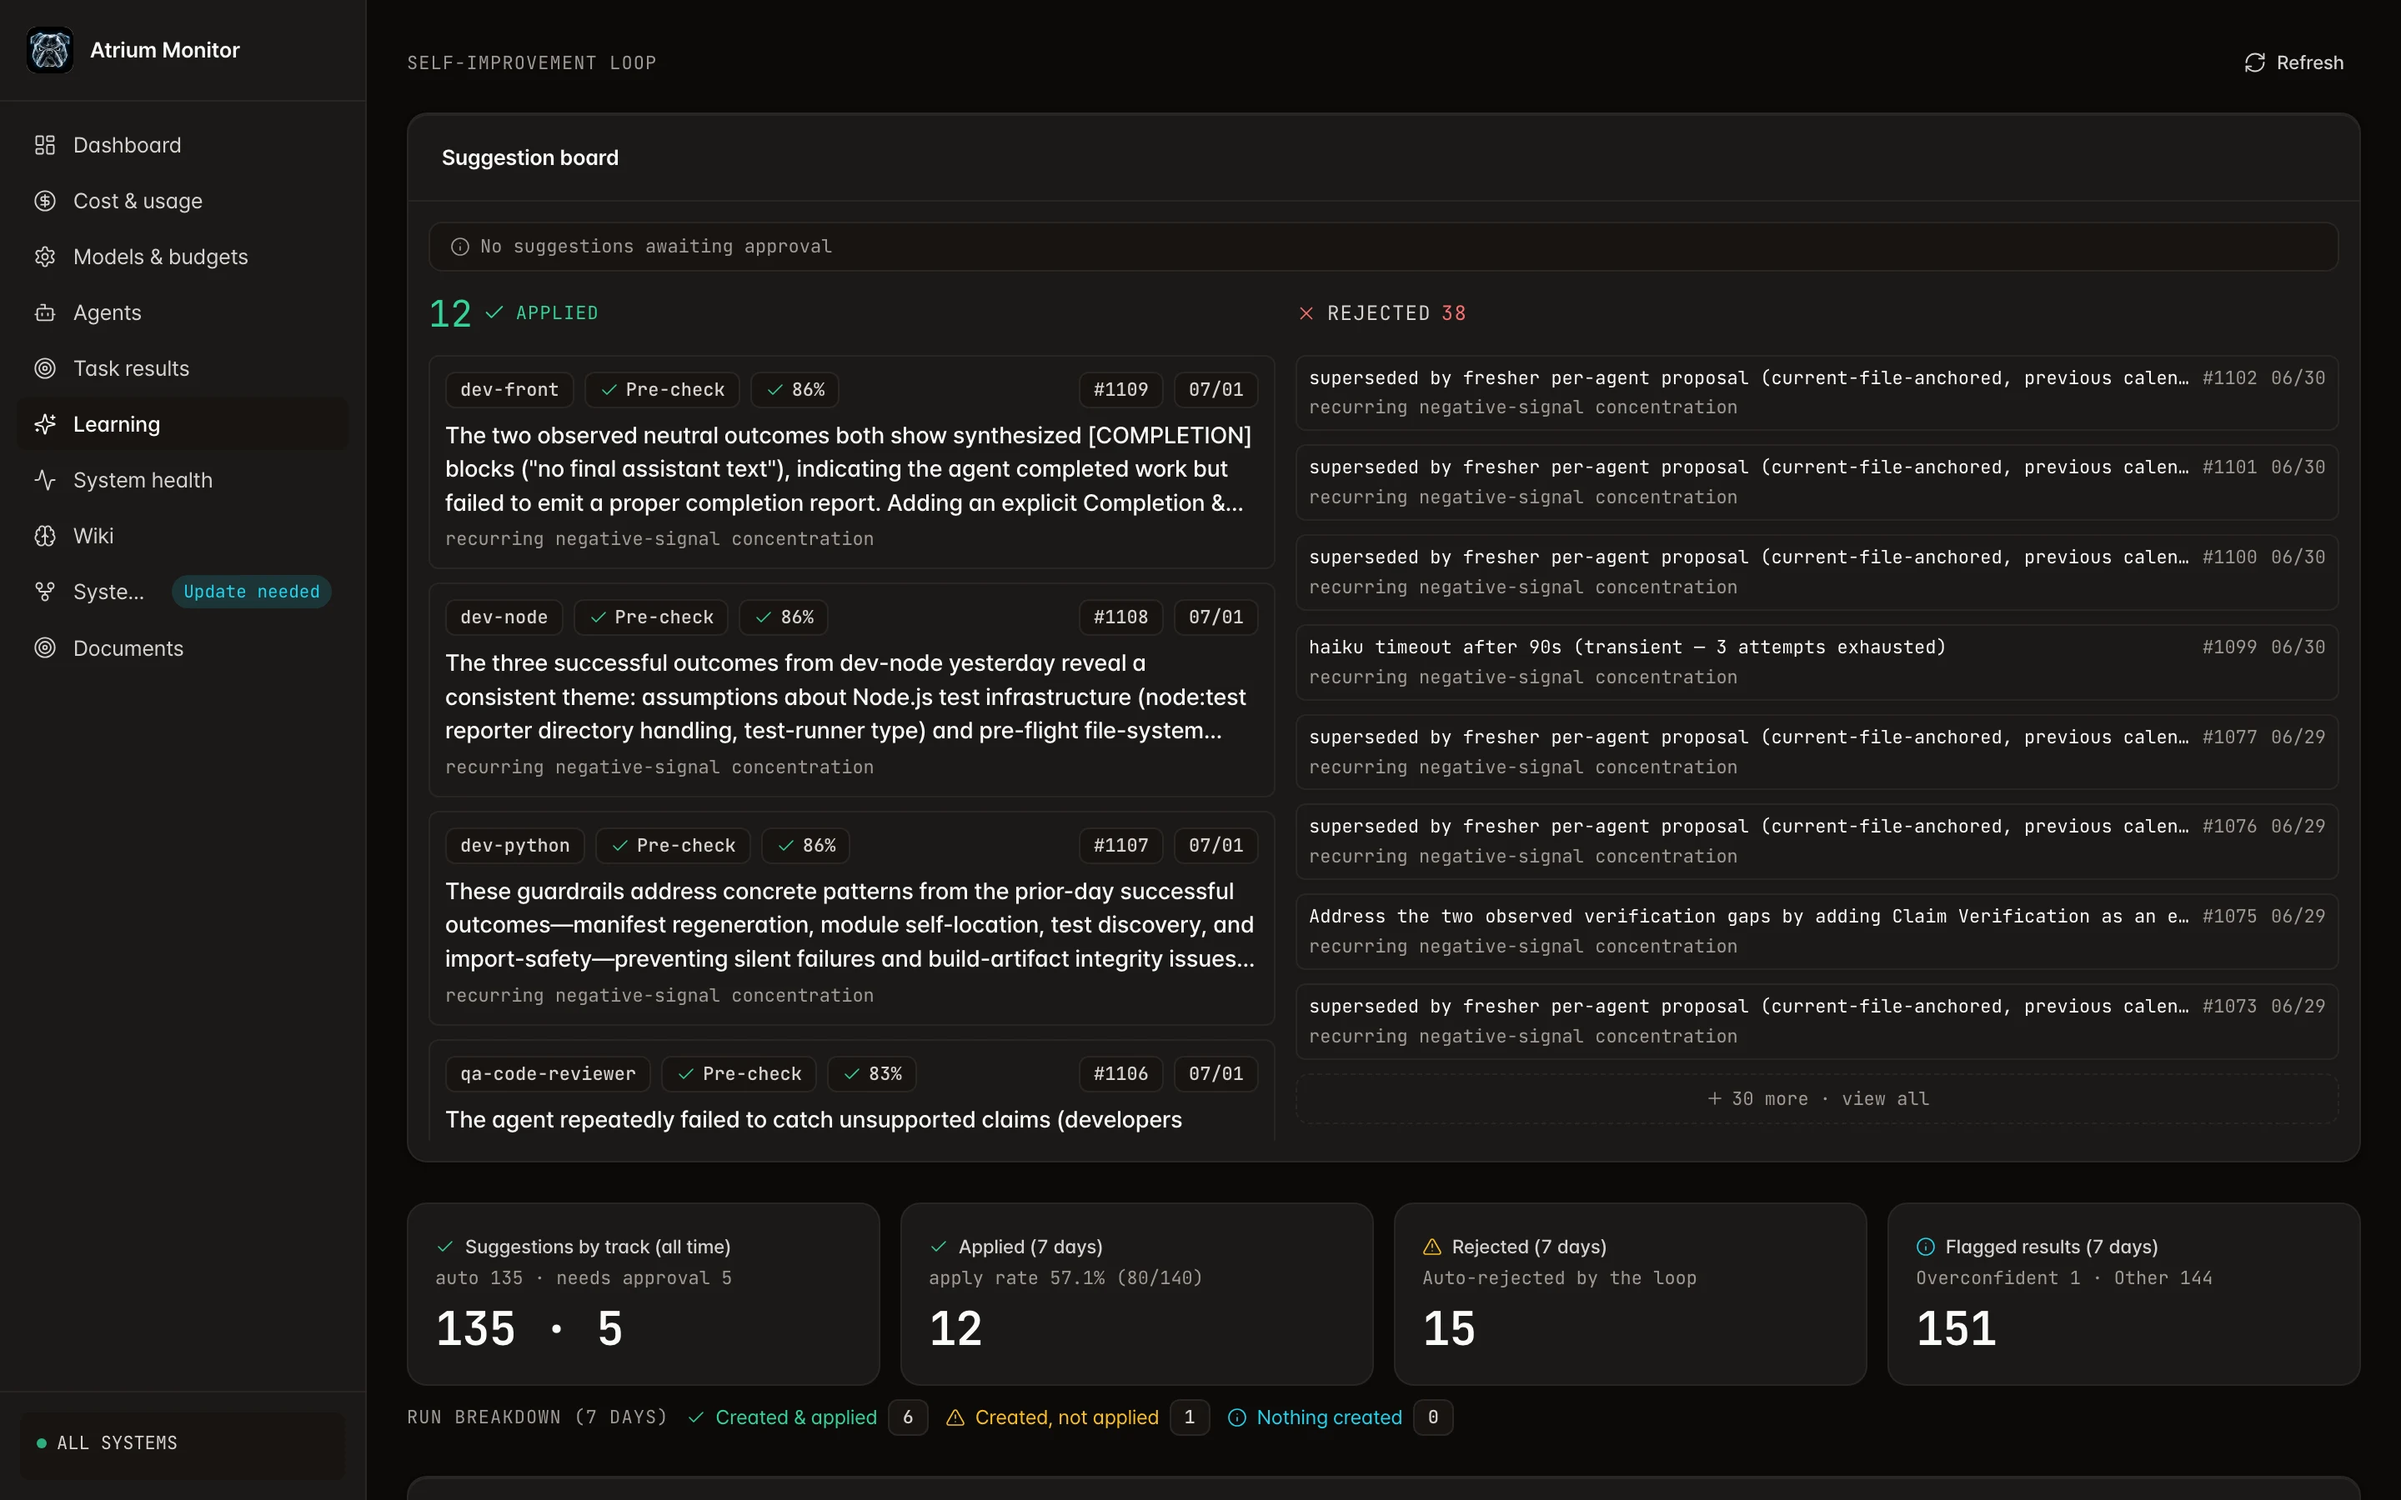
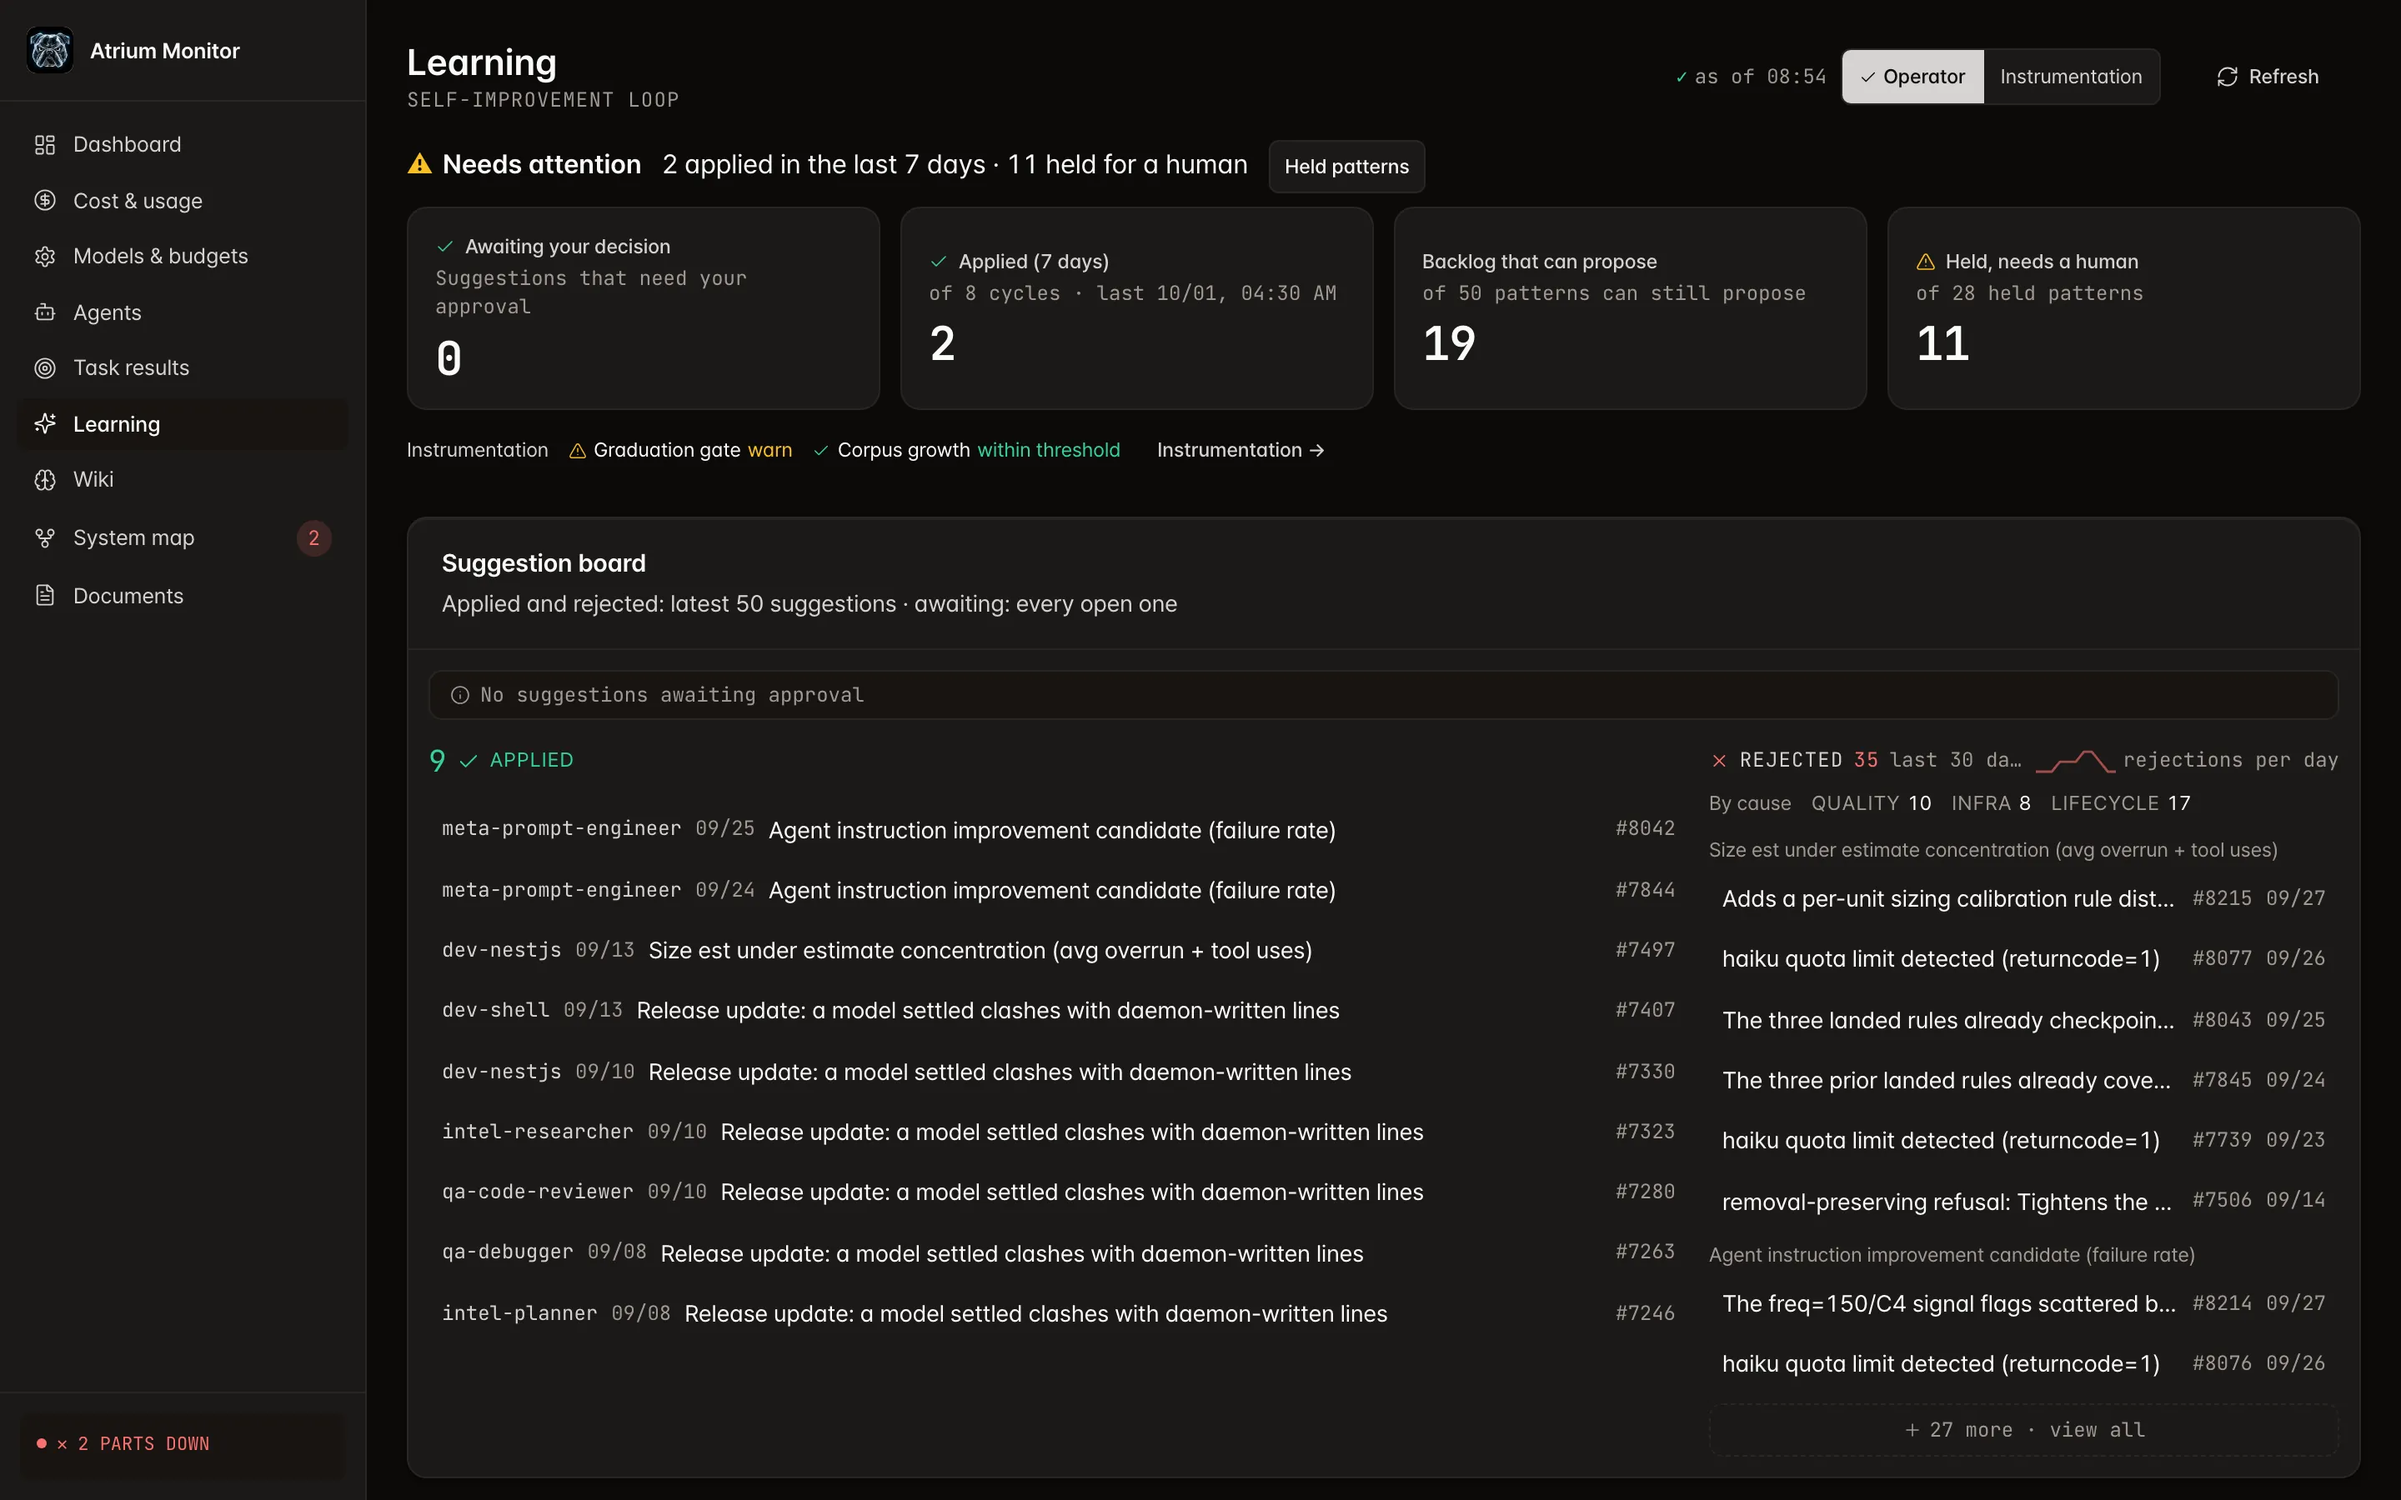
- [x] Refresh the README monitor screenshots and captions
The five README screenshots dated from before the round 4-6 monitor
redesign, so they no longer matched the live screens. Recaptured from
live data (dark, 1440x900 @2x) and rewrote the README.ko.md captions
from what each new screen shows.

Coding-Agent: Claude Code
Model: claude-opus-5-5

diff --git a/README.ko.md b/README.ko.md
@@ -180,19 +180,19 @@ curl -fsSL https://github.com/bettep-dev/glass-atrium/raw/main/install.sh | bash
 ## 모니터 화면
 
 <p align="center"><img src="https://github.com/bettep-dev/glass-atrium/raw/main/docs/assets/screen-dashboard.webp" alt="대시보드" width="100%"></p>
-<p align="center"><em>대시보드 개요 — 오늘 비용, 최근 30일 지출, 토큰 사용 추이, 세션·실패 카운터를 한눈에 표시합니다.</em></p>
+<p align="center"><em>대시보드 — 멈춘 하네스 부품을 맨 위에 알리고, 하네스 상태·7일 작업 결과·에이전트 현황·오늘 지출 타일과 일별 지출, 이번 주 작업 결과, 시간대별 실행 분포를 이어서 보여 줍니다.</em></p>
 
 <p align="center"><img src="https://github.com/bettep-dev/glass-atrium/raw/main/docs/assets/screen-cost.webp" alt="비용·토큰" width="100%"></p>
-<p align="center"><em>비용·토큰 — 비용 KPI와 30일 일별 비용 추이(스파이크 마커), 번레이트 예측을 함께 제공합니다.</em></p>
+<p align="center"><em>비용·토큰 — 오늘 지출이 7일 평균 대비 정상 범위인지 먼저 알리고, 30일 비용·완료 작업당 비용·캐시 비중 KPI와 일별 비용 추이, 토큰 유형·모델별 비용, 비용이 큰 세션을 보여 줍니다.</em></p>
 
 <p align="center"><img src="https://github.com/bettep-dev/glass-atrium/raw/main/docs/assets/screen-agents.webp" alt="에이전트" width="100%"></p>
-<p align="center"><em>에이전트 — 에이전트별 실행 수, 성공률, P95, 추세 스파크라인을 표시합니다.</em></p>
+<p align="center"><em>에이전트 — 라우팅하면 안 되는 에이전트와 실패·도구 사용 한도 초과·컨텍스트 부족 건수를 먼저 보여 주고, 성공률이 낮은 에이전트·작업 조합과 완료 기록이 없는 실행을 표로 정리합니다.</em></p>
 
 <p align="center"><img src="https://github.com/bettep-dev/glass-atrium/raw/main/docs/assets/screen-learning.webp" alt="학습" width="100%"></p>
-<p align="center"><em>학습 — 자가개선 제안 보드(대기/적용/거부)와 신뢰도, 사전검사 결과를 표시합니다.</em></p>
+<p align="center"><em>학습 — 자가개선 루프의 승인 대기·최근 적용·제안 가능 백로그·사람 판단이 필요한 보류 패턴 수를 보여 주고, 제안 보드에서 적용 이력과 원인별 거부 이력을 나눠 표시합니다.</em></p>
 
 <p align="center"><img src="https://github.com/bettep-dev/glass-atrium/raw/main/docs/assets/screen-system-map.webp" alt="System map" width="100%"></p>
-<p align="center"><em>System map — 유지되는 Mermaid 아키텍처 다이어그램에 라이브 상태 오버레이를 더했습니다.</em></p>
+<p align="center"><em>System map — 하네스 구성 다이어그램에 부품별 상태 링을 겹쳐 주의가 필요한 곳을 표시하고, 아래 부품 상태 목록에서 각 부품의 상태와 마지막 실행 시각을 보여 줍니다.</em></p>
 
 ## 라이선스
 
